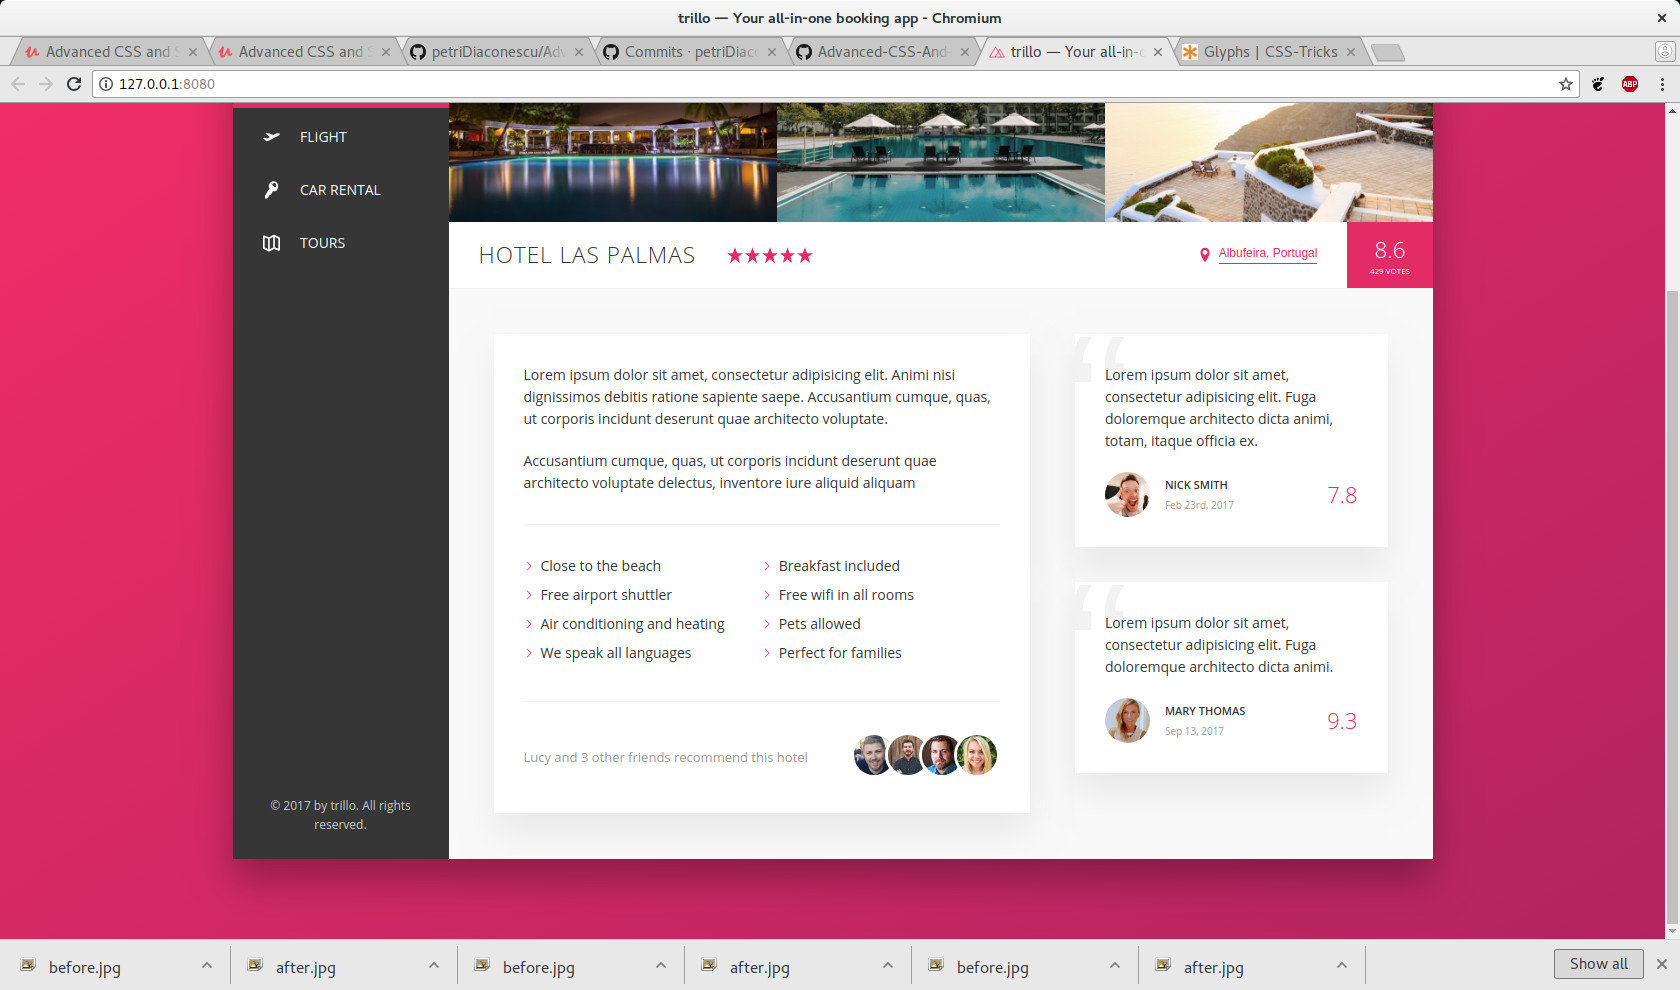
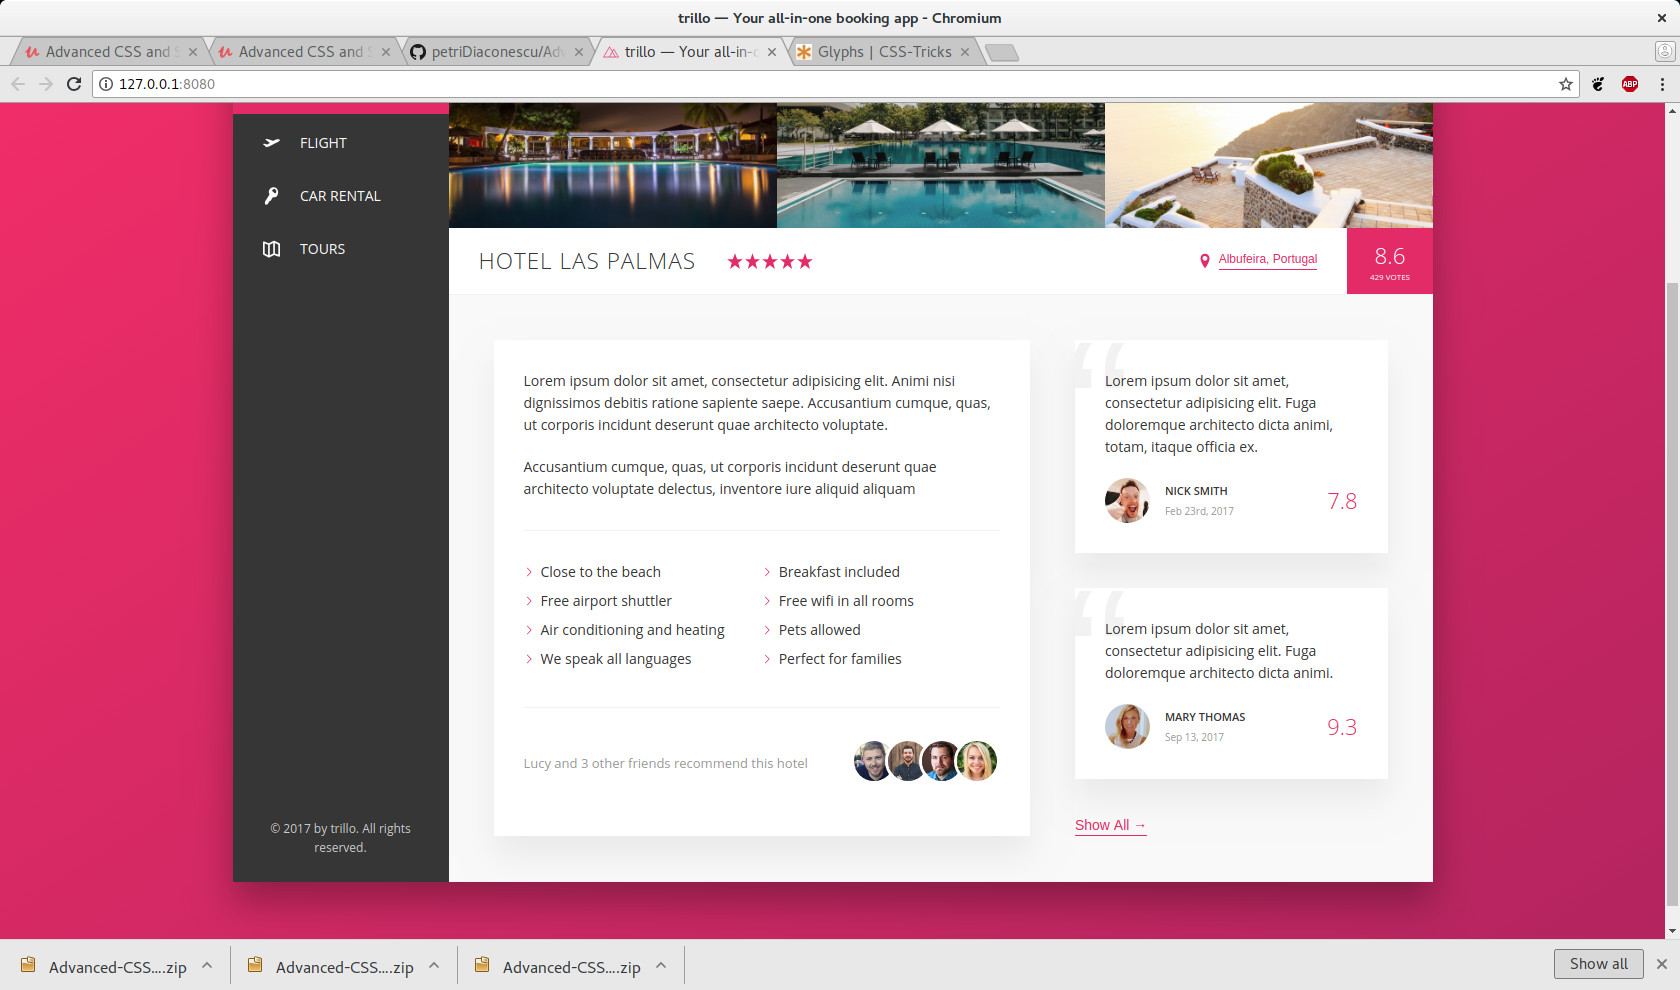
Animate margin-left property of the button recently added. Color of the button text is changed on hover too not explicitly specifying that.

diff --git a/sass/_components.scss b/sass/_components.scss
@@ -282,8 +282,17 @@
   cursor: pointer;
   transition: all .2s;
   
+  & span {
+    margin-left: 3px;
+    transition: all .2s;
+  }
+  
   &:hover {
     color: var(--color-grey-dark-1);
+    
+    span {
+      margin-left: 8px;
+    }
   }
   
   &:focus {
